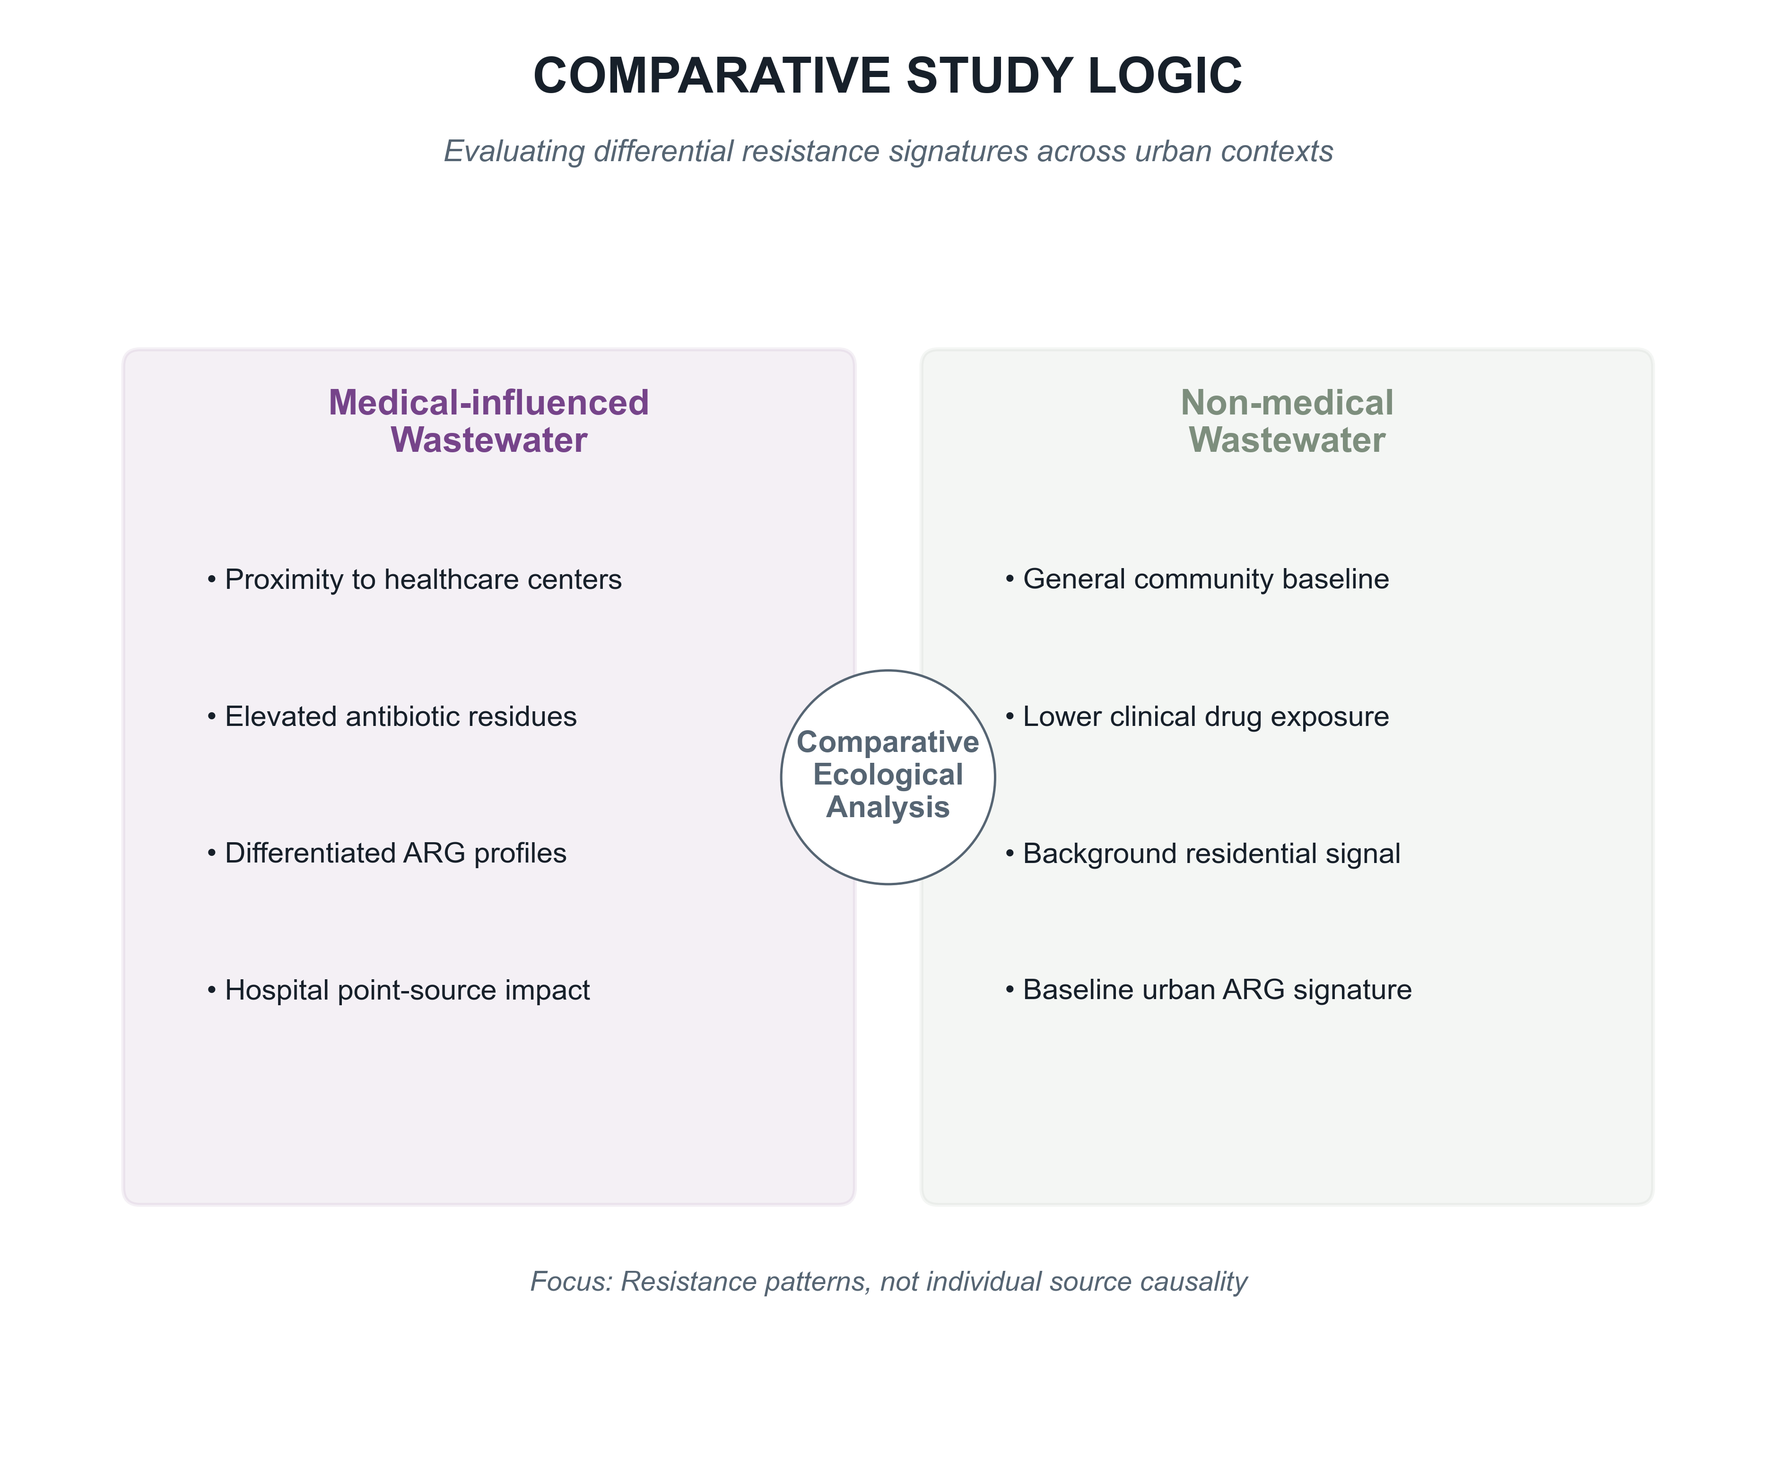
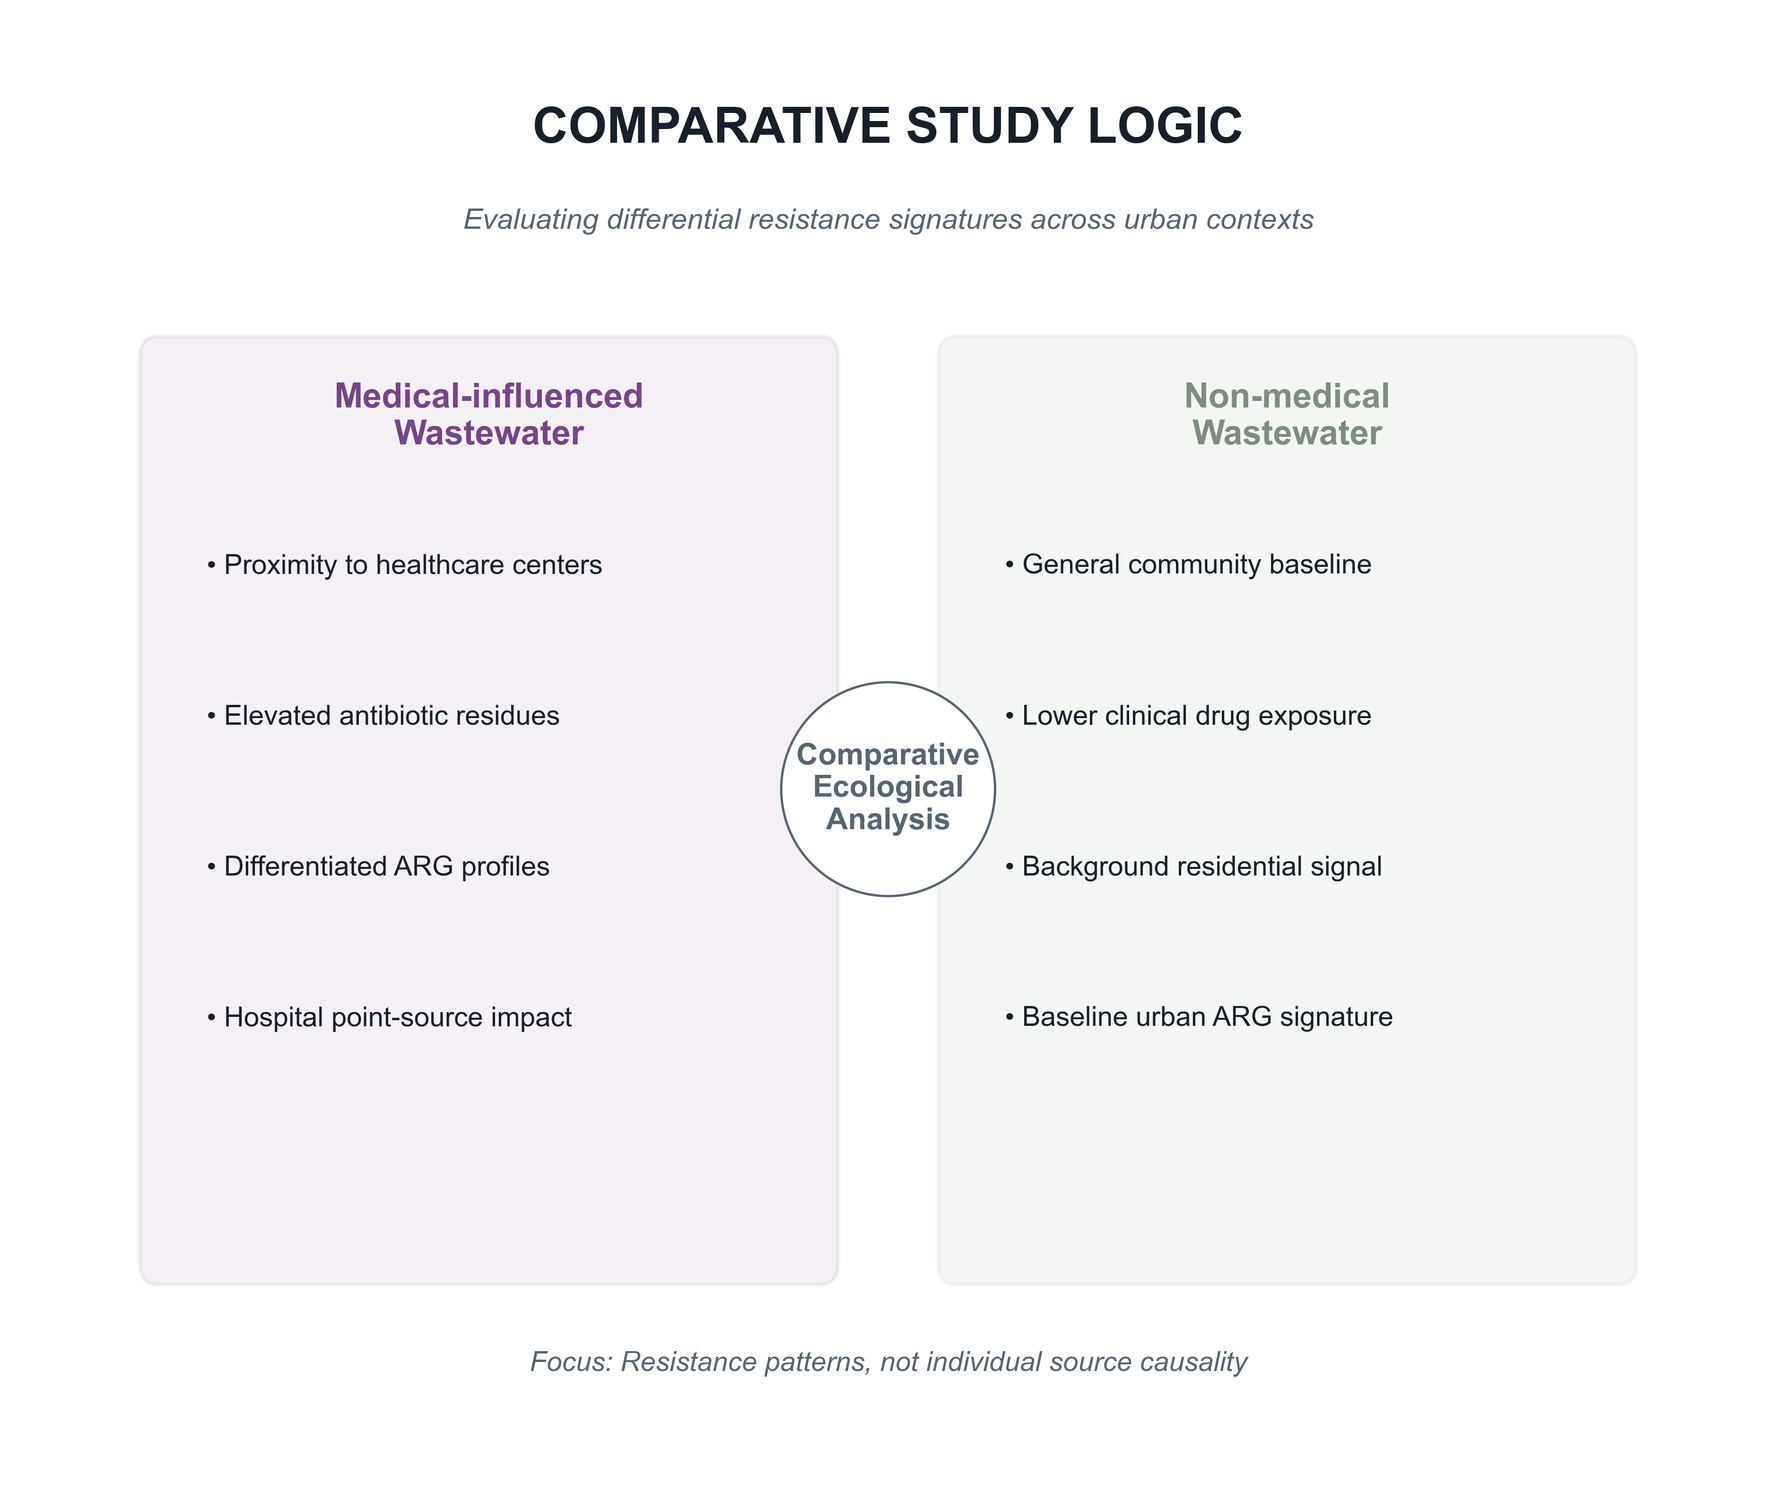
Spacing set

diff --git a/visualization/amr_thesis_visualization.py b/visualization/amr_thesis_visualization.py
@@ -94,24 +94,24 @@ def draw_glow_circle(ax, center, radius, color, alpha=0.3, layers=5):
 def draw_one_health_framework(ax, font_scale=1.0):
     """Figure 1: One Health Context of Antimicrobial Resistance."""
     ax.set_xlim(0, 10)
-    ax.set_ylim(0, 9)
+    ax.set_ylim(0.5, 8.5) # Tightened Y-limits
     ax.set_aspect('equal')
     ax.axis('off')
     
     create_gradient_background(ax)
     
-    # Title - Center Aligned
-    ax.text(5, 8.8, 'ONE HEALTH CONTEXT OF AMR', fontsize=20*font_scale, fontweight='bold',
+    # Title - Moved down
+    ax.text(5, 8.0, 'ONE HEALTH CONTEXT OF AMR', fontsize=18*font_scale, fontweight='bold',
             color=COLORS['text_dark'], ha='center', va='center')
     
-    # Subtitle
-    ax.text(5, 8.3, 'Wastewater integrates resistance signals across human, animal, and environmental systems', 
-            fontsize=10.5*font_scale, color=COLORS['text_grey'], ha='center', style='italic')
+    # Subtitle - Moved closer to title
+    ax.text(5, 7.5, 'Wastewater integrates resistance signals across human, animal, and environmental systems', 
+            fontsize=10*font_scale, color=COLORS['text_grey'], ha='center', style='italic')
     
-    # Domain Centers - Equilateral Triad (H, A, E)
-    H_center = (2.5, 5.0)
-    A_center = (7.5, 5.0)
-    E_center = (5.0, 2.0)
+    # Domain Centers - Shifted slightly up to pack
+    H_center = (2.5, 4.5)
+    A_center = (7.5, 4.5)
+    E_center = (5.0, 1.8)
     radius = 1.3
     
     centers = [H_center, A_center, E_center]
@@ -122,19 +122,17 @@ def draw_one_health_framework(ax, font_scale=1.0):
         ax.text(center[0], center[1], label, fontsize=12*font_scale, fontweight='normal',
                color=COLORS['text_dark'], ha='center', va='center', zorder=3)
     
-    # Central Wastewater Interface - At the center of the triad
-    W_center = (5.0, 4.0)
+    # Central Wastewater
+    W_center = (5.0, 3.6)
     W_radius = 1.5
     ax.add_patch(Circle(W_center, W_radius, color=COLORS['wastewater'], alpha=0.1, ec=COLORS['wastewater'], lw=1.5, linestyle='--', zorder=1))
-    ax.text(W_center[0], W_center[1], 'Urban\nWastewater\nInterface', fontsize=13*font_scale, fontweight='bold',
+    ax.text(W_center[0], W_center[1], 'Urban\nWastewater\nInterface', fontsize=12*font_scale, fontweight='bold',
             color=COLORS['wastewater'], ha='center', va='center', zorder=4)
     
-    # Bidirectional Connectors
+    # Connectors
     arrow_props = dict(arrowstyle='<->', color=COLORS['neutral'], lw=1.0, mutation_scale=10)
-    # H-A
     ax.annotate('', xy=(A_center[0]-radius-0.05, A_center[1]), xytext=(H_center[0]+radius+0.05, H_center[1]), arrowprops=arrow_props)
     
-    # H-E / A-E Slanted connectors
     h_to_e_v = np.array([2.5, -3.0]) / 3.905
     ax.annotate('', xy=(E_center[0]-h_to_e_v[0]*radius, E_center[1]-h_to_e_v[1]*radius), 
                xytext=(H_center[0]+h_to_e_v[0]*radius, H_center[1]+h_to_e_v[1]*radius), arrowprops=arrow_props)
@@ -143,12 +141,12 @@ def draw_one_health_framework(ax, font_scale=1.0):
     ax.annotate('', xy=(E_center[0]-a_to_e_v[0]*radius, E_center[1]-a_to_e_v[1]*radius), 
                xytext=(A_center[0]+a_to_e_v[0]*radius, A_center[1]+a_to_e_v[1]*radius), arrowprops=arrow_props)
     
-    # Connector labels - FIXED: Horizontal orientation for cleaner look
-    ax.text(5, 5.2, 'Interspecies spillover', fontsize=9.5*font_scale, color=COLORS['text_grey'], ha='center')
-    ax.text(2.6, 3.2, 'Anthropogenic\ninputs', fontsize=9.5*font_scale, color=COLORS['text_grey'], ha='center')
-    ax.text(7.4, 3.2, 'Ecological\ncycling', fontsize=9.5*font_scale, color=COLORS['text_grey'], ha='center')
+    # Connector labels
+    ax.text(5, 4.7, 'Interspecies spillover', fontsize=9*font_scale, color=COLORS['text_grey'], ha='center')
+    ax.text(2.6, 2.8, 'Anthropogenic\ninputs', fontsize=9*font_scale, color=COLORS['text_grey'], ha='center')
+    ax.text(7.4, 2.8, 'Ecological\ncycling', fontsize=9*font_scale, color=COLORS['text_grey'], ha='center')
     
-    # Bottom Caption
+    # Bottom Caption - Moved closer
     ax.text(5, 0.4, 'AMR as an interconnected, system-level challenge', 
             fontsize=10*font_scale, color=COLORS['text_grey'], ha='center', style='italic')
 
@@ -156,22 +154,22 @@ def draw_one_health_framework(ax, font_scale=1.0):
 def draw_wastewater_sources(ax, font_scale=1.0):
     """Figure 2: Urban Wastewater as a Population-Level AMR Matrix."""
     ax.set_xlim(0, 10)
-    ax.set_ylim(2, 9) # Tightened limits to remove white space
+    ax.set_ylim(2.2, 8.2) # Tightest limits to pack content
     ax.axis('off')
     
     create_gradient_background(ax)
     
-    # Title
-    ax.text(5, 8.8, 'WASTEWATER AS A POPULATION MATRIX', 
+    # Title - Moved down
+    ax.text(5, 7.8, 'WASTEWATER AS A POPULATION MATRIX', 
             fontsize=18*font_scale, fontweight='bold', color=COLORS['text_dark'], ha='center')
     
-    # Subtitle
-    ax.text(5, 8.4, 'Population-level integration of antimicrobial resistance signals',
-            fontsize=11*font_scale, color=COLORS['text_grey'], ha='center', style='italic')
+    # Subtitle - Moved closer
+    ax.text(5, 7.4, 'Population-level integration of antimicrobial resistance signals',
+            fontsize=10.5*font_scale, color=COLORS['text_grey'], ha='center', style='italic')
     
-    # Input boxes
+    # Input boxes - Packed vertically
     box_w, box_h = 2.4, 1.2
-    y_in = 6.8
+    y_in = 6.2
     sources = [
         (1.5, y_in, 'Community\nHouseholds', COLORS['non_medical']),
         (5, y_in, 'Healthcare\nFacilities', COLORS['medical']),
@@ -187,156 +185,154 @@ def draw_wastewater_sources(ax, font_scale=1.0):
                color='white' if color != COLORS['neutral_light'] else COLORS['text_dark'],
                ha='center', va='center', zorder=3)
     
-    # Symmetrical Connectors
+    # Symmetrical Connectors - Tightened
     arrow_props = dict(arrowstyle='->', color=COLORS['neutral'], lw=1.2, mutation_scale=10)
     for x in [1.5, 5, 8.5]:
         start_x, start_y = x, y_in - box_h/2 - 0.05
         target_x = 4.0 if x == 1.5 else (6.0 if x == 8.5 else 5.0)
-        target_y = 5.2 # Higher target to bridge the gap
+        target_y = 5.0
         ax.annotate('', xy=(target_x, target_y), xytext=(start_x, start_y), arrowprops=arrow_props)
     
-    # Wastewater focus
-    ax.add_patch(FancyBboxPatch((2, 3.2), 6, 2.0, boxstyle="round,pad=0.1",
+    # Wastewater focus - Moved up to close gap
+    ax.add_patch(FancyBboxPatch((2, 3.2), 6, 1.8, boxstyle="round,pad=0.1",
                                     facecolor=COLORS['wastewater'], alpha=0.1,
                                     edgecolor=COLORS['wastewater'], lw=1.5, zorder=1))
     
-    ax.text(5, 4.4, 'URBAN WASTEWATER SYSTEM', fontsize=14*font_scale, fontweight='bold',
+    ax.text(5, 4.3, 'URBAN WASTEWATER SYSTEM', fontsize=14*font_scale, fontweight='bold',
            color=COLORS['wastewater'], ha='center', zorder=3)
-    ax.text(5, 3.9, 'Integrated Biological Matrix', fontsize=11*font_scale,
+    ax.text(5, 3.8, 'Integrated Biological Matrix', fontsize=11*font_scale,
            color=COLORS['text_grey'], ha='center', fontweight='normal', zorder=3)
-    ax.text(5, 3.5, 'Aggregated Population Signals', fontsize=10*font_scale,
+    ax.text(5, 3.4, 'Aggregated Population Signals', fontsize=10*font_scale,
            color=COLORS['text_grey'], ha='center', style='italic', zorder=3)
     
-    # Caption
-    ax.text(5, 2.4, 'Reflects aggregated urban resistance pressure, not individual risk', 
+    # Caption - Tightly packed at bottom
+    ax.text(5, 2.5, 'Reflects aggregated urban resistance pressure, not individual risk', 
             fontsize=10*font_scale, color=COLORS['text_grey'], ha='center', style='italic')
 
 
 def draw_tier_2_context(ax, font_scale=1.0):
     """Figure 3: Tier-2 Indian Urban Context Visualization."""
     ax.set_xlim(0, 10)
-    ax.set_ylim(1, 9) # Tightened limits
+    ax.set_ylim(1.5, 8.5) # Tightened Y-limits
     ax.axis('off')
     
     create_gradient_background(ax)
     
-    # Title
-    ax.text(5, 8.8, 'TIER-2 URBAN WASTEWATER PROFILE', 
+    # Title - Moved down
+    ax.text(5, 8.0, 'TIER-2 URBAN WASTEWATER PROFILE', 
             fontsize=18*font_scale, fontweight='bold', color=COLORS['text_dark'], ha='center')
     
-    ax.text(5, 8.3, 'Characterizing the vulnerability of under-studied urban centers',
-            fontsize=11*font_scale, color=COLORS['text_grey'], ha='center', style='italic')
+    ax.text(5, 7.6, 'Characterizing the vulnerability of under-studied urban centers',
+            fontsize=10.5*font_scale, color=COLORS['text_grey'], ha='center', style='italic')
     
-    # Descriptive Layers
+    # Descriptive Layers - Packed tighter
     layers = [
-        (6.5, 'MIXED LAND USE PATTERNS', 'Co-existence of residential, commercial,\nand healthcare zones in close proximity', COLORS['neutral_light']),
-        (4.5, 'PARTIAL INFRASTRUCTURE', 'Non-unified sewage networks leading to\ndirect healthcare waste entry points', COLORS['non_medical']),
-        (2.5, 'WASTE CONVERGENCE', 'Aggregated signals from clinical and\nmunicipal sources in a single matrix', COLORS['medical'])
+        (6.0, 'MIXED LAND USE PATTERNS', 'Co-existence of residential, commercial,\nand healthcare zones in close proximity', COLORS['neutral_light']),
+        (4.2, 'PARTIAL INFRASTRUCTURE', 'Non-unified sewage networks leading to\ndirect healthcare waste entry points', COLORS['non_medical']),
+        (2.4, 'WASTE CONVERGENCE', 'Aggregated signals from clinical and\nmunicipal sources in a single matrix', COLORS['medical'])
     ]
     
     for y, title, desc, color in layers:
         # Box for title
-        ax.add_patch(FancyBboxPatch((1.0, y-1.0), 3.0, 1.2, boxstyle="round,pad=0.1",
+        ax.add_patch(FancyBboxPatch((0.8, y-0.8), 3.2, 1.2, boxstyle="round,pad=0.1",
                                     facecolor=color, alpha=0.8, ec=COLORS['border'], lw=1.0))
-        ax.text(2.5, y-0.4, title, fontsize=10*font_scale, fontweight='bold', color=COLORS['text_dark'] if color==COLORS['neutral_light'] else 'white', ha='center', va='center')
+        ax.text(2.4, y-0.2, title, fontsize=10*font_scale, fontweight='bold', color=COLORS['text_dark'] if color==COLORS['neutral_light'] else 'white', ha='center', va='center')
         
         # Annotation for description
-        ax.text(4.5, y-0.4, desc, fontsize=10.5*font_scale, color=COLORS['text_dark'], ha='left', va='center')
+        ax.text(4.3, y-0.2, desc, fontsize=10*font_scale, color=COLORS['text_dark'], ha='left', va='center')
         
         # Connection line
-        ax.plot([4.0, 4.3], [y-0.4, y-0.4], color=COLORS['neutral'], lw=1.0)
+        ax.plot([4.0, 4.2], [y-0.2, y-0.2], color=COLORS['neutral'], lw=1.0)
     
-    # Concluding line
-    ax.text(5, 1.2, 'Epidemiological relevance of incomplete waste segregation', 
+    # Concluding line - Moved closer
+    ax.text(5, 1.0, 'Epidemiological relevance of incomplete waste segregation', 
             fontsize=10*font_scale, color=COLORS['text_grey'], ha='center', style='italic')
 
 def draw_comparison_framework(ax, font_scale=1.0):
     """Figure 4: Comparative Study Logic."""
     ax.set_xlim(0, 10)
-    ax.set_ylim(1, 9) # Tightened limits
+    ax.set_ylim(1.8, 8.2) # Packed limits
     ax.axis('off')
     
     create_gradient_background(ax)
     
-    # Title
-    ax.text(5, 8.8, 'COMPARATIVE STUDY LOGIC',
+    # Title - Moved down
+    ax.text(5, 7.8, 'COMPARATIVE STUDY LOGIC',
             fontsize=18*font_scale, fontweight='bold', color=COLORS['text_dark'], ha='center')
     
-    ax.text(5, 8.4, 'Evaluating differential resistance signatures across urban contexts',
-            fontsize=11*font_scale, color=COLORS['text_grey'], ha='center', style='italic')
+    ax.text(5, 7.4, 'Evaluating differential resistance signatures across urban contexts',
+            fontsize=10.5*font_scale, color=COLORS['text_grey'], ha='center', style='italic')
     
     # Center Separator
     ax.text(5, 4.8, 'Comparative\nEcological\nAnalysis', fontsize=11*font_scale, fontweight='bold',
            color=COLORS['neutral'], ha='center', va='center', 
            bbox=dict(boxstyle='circle,pad=0.5', facecolor=COLORS['white'], edgecolor=COLORS['neutral'], lw=1.2))
     
-    # Comparison Panels
-    box_w, box_h = 4.2, 4.8
+    # Comparison Panels - Packed tightly
+    box_w, box_h = 4.0, 4.2
     panels = [
-        (0.5, 2.4, 'Medical-influenced\nWastewater', COLORS['medical'], 
+        (0.6, 2.6, 'Medical-influenced\nWastewater', COLORS['medical'], 
          ['• Proximity to healthcare centers', '• Elevated antibiotic residues', '• Differentiated ARG profiles', '• Hospital point-source impact']),
-        (5.3, 2.4, 'Non-medical\nWastewater', COLORS['non_medical'], 
+        (5.4, 2.6, 'Non-medical\nWastewater', COLORS['non_medical'], 
          ['• General community baseline', '• Lower clinical drug exposure', '• Background residential signal', '• Baseline urban ARG signature'])
     ]
     
     for x, y, title, color, points in panels:
         ax.add_patch(FancyBboxPatch((x, y), box_w, box_h, boxstyle="round,pad=0.1",
                                      facecolor=color, alpha=0.08, ec=color, lw=2.0))
-        ax.text(x+box_w/2, y+box_h-0.5, title, fontsize=13*font_scale, fontweight='bold', color=color, ha='center')
+        ax.text(x+box_w/2, y+box_h-0.4, title, fontsize=12.5*font_scale, fontweight='bold', color=color, ha='center')
         
         for i, pt in enumerate(points):
-            ax.text(x+0.4, y+box_h-1.3 - i*0.8, pt, fontsize=10.5*font_scale, color=COLORS['text_dark'], ha='left')
+            ax.text(x+0.3, y+box_h-1.0 - i*0.7, pt, fontsize=10*font_scale, color=COLORS['text_dark'], ha='left')
     
-    # Footnote
-    ax.text(5, 1.8, 'Focus: Resistance patterns, not individual source causality', 
+    # Footnote - Tighter
+    ax.text(5, 2.1, 'Focus: Resistance patterns, not individual source causality', 
             fontsize=10*font_scale, color=COLORS['text_grey'], ha='center', style='italic')
 
 
 def draw_analysis_pipeline(ax, font_scale=1.0):
     """Figure 5: Analytical and Interpretation Framework Visualization."""
     ax.set_xlim(0, 10)
-    ax.set_ylim(1, 9) # Tightened limits
+    ax.set_ylim(1.5, 8.5) # Tightened limits
     ax.axis('off')
     
     create_gradient_background(ax)
     
-    # Title
-    ax.text(5, 8.8, 'ANALYTICAL & INTERPRETATION FRAMEWORK',
+    # Title - Moved down
+    ax.text(5, 8.0, 'ANALYTICAL & INTERPRETATION FRAMEWORK',
             fontsize=18*font_scale, fontweight='bold', color=COLORS['text_dark'], ha='center')
     
-    # Pipeline steps
+    # Pipeline steps - Packed tighter vertically
     steps = [
-        ('1. DATA ACQUISITION', 'Secondary analysis of\nmetagenomic FASTQ sets'),
-        ('2. ARG ANNOTATION', 'Bioinformatics identification\n(CARD / ResFinder)'),
-        ('3. COMPARISON', 'Differential abundance and\ndiversity metrics'),
-        ('4. INTERPRETATION', 'One Health ecological\nsignal characterization')
+        ('1. DATA ACQUISITION', 'Secondary analysis of\nmetagenomic FASTQ'),
+        ('2. ARG ANNOTATION', 'Bioinformatics profiling\n(CARD / ResFinder)'),
+        ('3. COMPARISON', 'Abundance and\ndiversity metrics'),
+        ('4. INTERPRETATION', 'One Health ecological\ncharacterization')
     ]
     
-    y_start = 6.8
+    y_step = 6.2
     for i, (title, desc) in enumerate(steps):
-        # Arrow from previous
         if i > 0:
-            ax.annotate('', xy=(1.5 + i*2.3, y_start), xytext=(0.9 + i*2.3, y_start), 
+            ax.annotate('', xy=(1.5 + i*2.3, y_step), xytext=(0.9 + i*2.3, y_step), 
                        arrowprops=dict(arrowstyle='->', color=COLORS['neutral'], lw=1.2))
         
-        # Step box
-        ax.add_patch(FancyBboxPatch((0.4 + i*2.3, y_start-0.8), 2.0, 1.6, boxstyle="round,pad=0.1",
+        ax.add_patch(FancyBboxPatch((0.4 + i*2.3, y_step-0.8), 2.0, 1.6, boxstyle="round,pad=0.1",
                                     facecolor=COLORS['neutral_light'], ec=COLORS['border'], lw=0.8))
-        ax.text(1.4 + i*2.3, y_start+0.2, title, fontsize=9*font_scale, fontweight='bold', ha='center')
-        ax.text(1.4 + i*2.3, y_start-0.3, desc, fontsize=8.5*font_scale, color=COLORS['text_grey'], ha='center')
+        ax.text(1.4 + i*2.3, y_step+0.2, title, fontsize=9*font_scale, fontweight='bold', ha='center')
+        ax.text(1.4 + i*2.3, y_step-0.3, desc, fontsize=8*font_scale, color=COLORS['text_grey'], ha='center')
     
-    # Interpretation Constraint Box
-    ax.add_patch(FancyBboxPatch((1.5, 3.0), 7, 2.0, boxstyle="round,pad=0.2",
+    # Interpretation Constraint Box - Moved closer
+    ax.add_patch(FancyBboxPatch((1.5, 2.8), 7, 1.8, boxstyle="round,pad=0.2",
                                  facecolor=COLORS['medical'], alpha=0.03, ec=COLORS['medical'], lw=1.2, linestyle='--'))
     
-    ax.text(5, 4.2, 'CORE INTERPRETATIVE LIMITATION', fontsize=11*font_scale, fontweight='bold', color=COLORS['medical'], ha='center')
-    ax.text(5, 3.6, '“Analysis constrained to population-level ecological patterns”', 
-           fontsize=12*font_scale, color=COLORS['medical'], ha='center', fontweight='normal', style='italic')
-    ax.text(5, 3.1, 'No clinical diagnostics, causal inference, or individual-level risk assessment',
+    ax.text(5, 3.9, 'CORE INTERPRETATIVE LIMITATION', fontsize=10.5*font_scale, fontweight='bold', color=COLORS['medical'], ha='center')
+    ax.text(5, 3.4, '“Analysis constrained to population-level ecological patterns”', 
+           fontsize=11.5*font_scale, color=COLORS['medical'], ha='center', fontweight='normal', style='italic')
+    ax.text(5, 3.0, 'No clinical diagnostics or individual-level risk assessment',
            fontsize=9*font_scale, color=COLORS['text_grey'], ha='center')
     
-    # Footnote
-    ax.text(5, 1.8, 'Workflow optimized for characterization of secondary datasets', 
+    # Footnote - Moved closer
+    ax.text(5, 2.0, 'Workflow optimized for characterization of secondary datasets', 
             fontsize=10*font_scale, color=COLORS['text_grey'], ha='center', style='italic')
 
 
